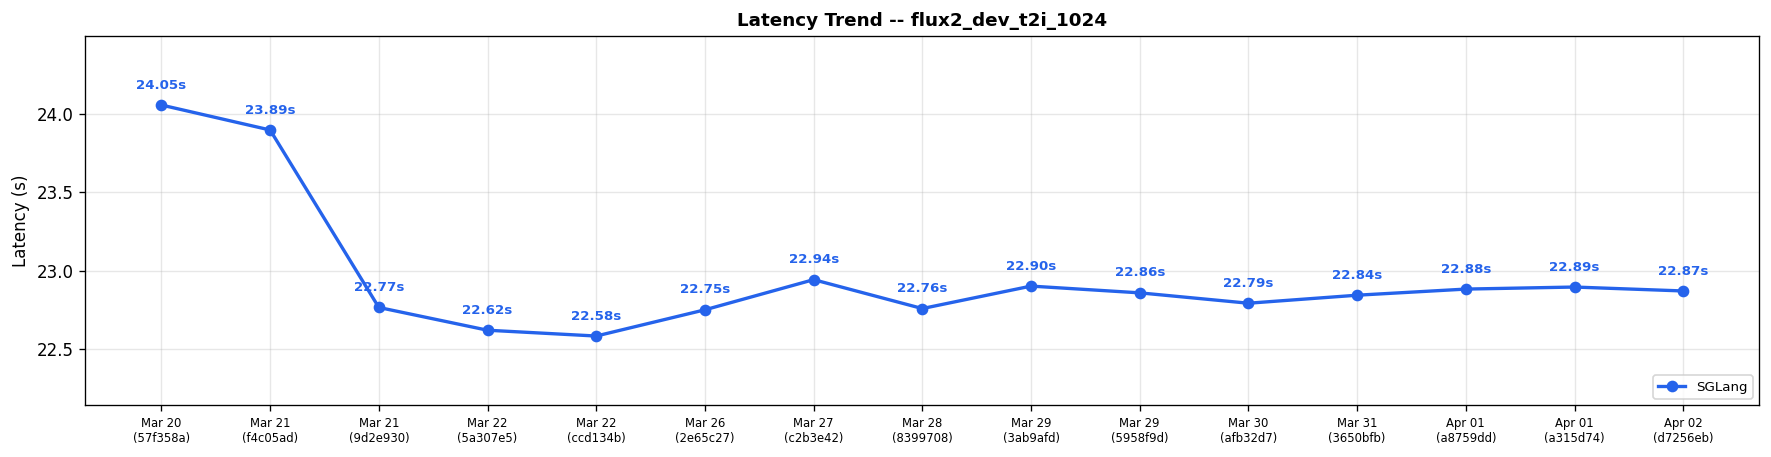
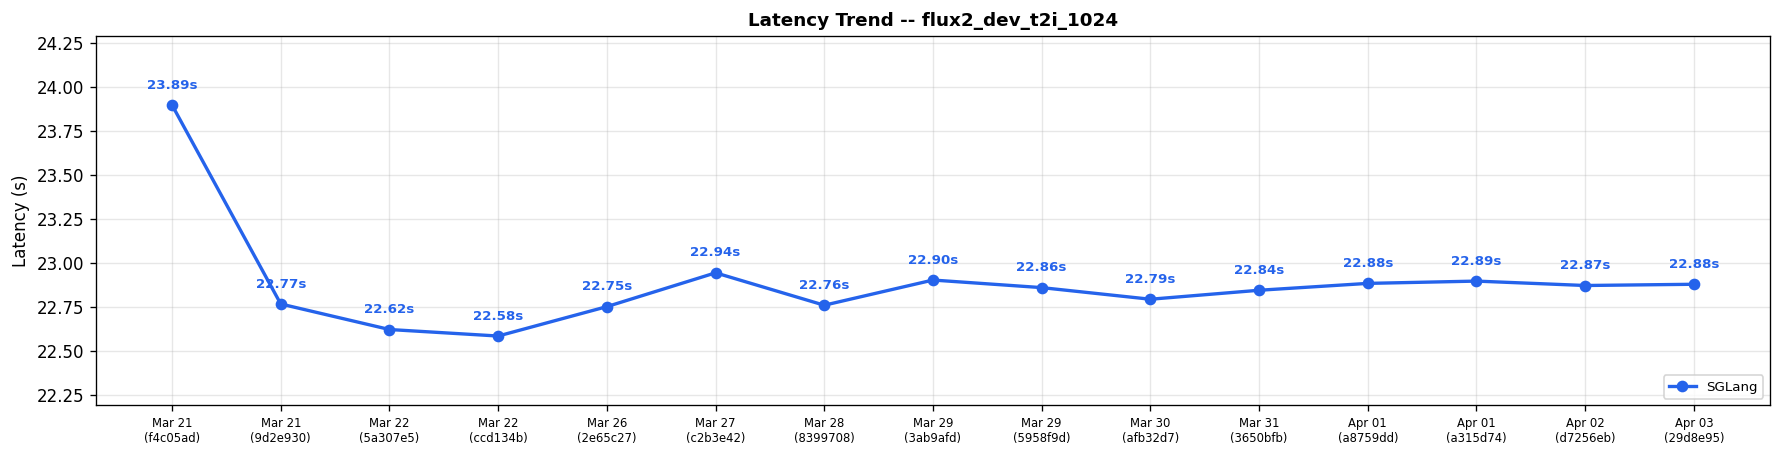
Diffusion comparison results for run 23928679336 (#549)

diff --git a/diffusion-comparisons/dashboard.md b/diffusion-comparisons/dashboard.md
@@ -1,24 +1,25 @@
 # Diffusion Cross-Framework Performance Dashboard
 
-*Generated: Apr 02 | Commit: `d7256eb`*
+*Generated: Apr 03 | Commit: `29d8e95`*
 
 ## Cross-Framework Performance Comparison
 
 | Model | Risk | sglang (s) |
 |-------|------|---------|
-| FLUX.1-dev | ✅ | **6.70** |
-| FLUX.2-dev | ✅ | **22.87** |
-| Qwen-Image-2512 | ✅ | **13.18** |
-| Qwen-Image-Edit-2511 | ✅ | **29.59** |
+| FLUX.1-dev | ✅ | **6.69** |
+| FLUX.2-dev | ✅ | **22.88** |
+| Qwen-Image-2512 | ✅ | **13.55** |
+| Qwen-Image-Edit-2511 | ✅ | **29.62** |
 | Z-Image-Turbo | ✅ | **0.93** |
-| Wan2.2-T2V-A14B-Diffusers | ✅ | **16.11** |
-| Wan2.2-TI2V-5B-Diffusers | ✅ | **62.20** |
-| Wan2.2-I2V-A14B-Diffusers | ⚠ | **22.07** |
+| Wan2.2-T2V-A14B-Diffusers | ✅ | **16.57** |
+| Wan2.2-TI2V-5B-Diffusers | ✅ | **62.18** |
+| Wan2.2-I2V-A14B-Diffusers | ✅ | **21.07** |
 
 ## SGLang Performance Trend (Last 15 Runs)
 
 | Date | Commit | flux1_dev_t2i_1024 (s) | flux2_dev_t2i_1024 (s) | qwen_image_2512_t2i_1024 (s) | qwen_image_edit_2511 (s) | zimage_turbo_t2i_1024 (s) | wan22_t2v_a14b_720p (s) | wan22_ti2v_5b_720p (s) | wan22_i2v_a14b_720p (s) | Trend |
 |------|--------|---------|---------|---------|---------|---------|---------|---------|---------|-------|
+| Apr 03 | `29d8e95` | 6.69 | 22.88 | 13.55 | 29.62 | 0.93 | 16.57 | 62.18 | 21.07 | :left_right_arrow:  :left_right_arrow:  :arrow_up:  :left_right_arrow:  :left_right_arrow:  :arrow_up:  :left_right_arrow:  :arrow_down: |
 | Apr 02 | `d7256eb` | 6.70 | 22.87 | 13.18 | 29.59 | 0.93 | 16.11 | 62.20 | 22.07 | :left_right_arrow:  :left_right_arrow:  :left_right_arrow:  :left_right_arrow:  :left_right_arrow:  :left_right_arrow:  :left_right_arrow:  :left_right_arrow: |
 | Apr 01 | `a315d74` | 6.70 | 22.89 | 13.30 | 29.70 | 0.92 | 16.20 | 62.19 | 22.08 | :left_right_arrow:  :left_right_arrow:  :left_right_arrow:  :left_right_arrow:  :left_right_arrow:  :left_right_arrow:  :left_right_arrow:  :arrow_up: |
 | Apr 01 | `a8759dd` | 6.70 | 22.88 | 13.19 | 30.10 | 0.93 | 16.16 | 62.20 | 21.07 | :left_right_arrow:  :left_right_arrow:  :left_right_arrow:  :left_right_arrow:  :left_right_arrow:  :left_right_arrow:  :left_right_arrow:  :arrow_up: |
@@ -32,8 +33,7 @@
 | Mar 22 | `ccd134b` | 6.69 | 22.58 | 13.58 | 29.97 | 1.96 | 16.10 | 62.17 | 10.04 | :left_right_arrow:  :left_right_arrow:  :arrow_down:  :left_right_arrow:  :arrow_down:  :left_right_arrow:  :left_right_arrow:  :left_right_arrow: |
 | Mar 22 | `5a307e5` | 6.70 | 22.62 | 14.09 | 30.14 | 2.01 | 16.13 | 62.20 | 10.04 | :left_right_arrow:  :left_right_arrow:  :arrow_up:  :left_right_arrow:  :arrow_up:  :left_right_arrow:  :left_right_arrow:  :arrow_up: |
 | Mar 21 | `9d2e930` | 6.77 | 22.77 | 13.71 | 30.39 | 1.93 | 16.14 | 62.15 | 9.03 | :arrow_down:  :arrow_down:  :arrow_down:  :arrow_down:  :arrow_down:  :arrow_down:  :arrow_down:  :arrow_down: |
-| Mar 21 | `f4c05ad` | 7.25 | 23.89 | 14.66 | 33.42 | 2.04 | 19.25 | 70.19 | 10.04 | :left_right_arrow:  :left_right_arrow:  :arrow_down:  :left_right_arrow:  :arrow_down:    :left_right_arrow: |
-| Mar 20 | `57f358a` | 7.13 | 24.05 | 17.18 | 32.91 | 2.33 | N/A | N/A | 10.04 | -- |
+| Mar 21 | `f4c05ad` | 7.25 | 23.89 | 14.66 | 33.42 | 2.04 | 19.25 | 70.19 | 10.04 | -- |
 
 ### Latency Trend: flux1_dev_t2i_1024
 
@@ -73,15 +73,6 @@
 ### Latency Trend: wan22_i2v_a14b_720p
 
 ![Latency Trend wan22_i2v_a14b_720p](https://raw.githubusercontent.com/sglang-bot/sglang-ci-data/main/diffusion-comparisons/charts/latency_wan22_i2v_a14b_720p.png)
-
-
-> [!CAUTION]
-> **Action Required — Performance Alert**
->
-> The following cases need attention:
-> - wan22_i2v_a14b_720p: SGLang regression +26.9% vs 3-run avg (22.07s vs 17.39s)
->
-> cc @mickqian @bbuf @yhyang201
 
 
 ---
